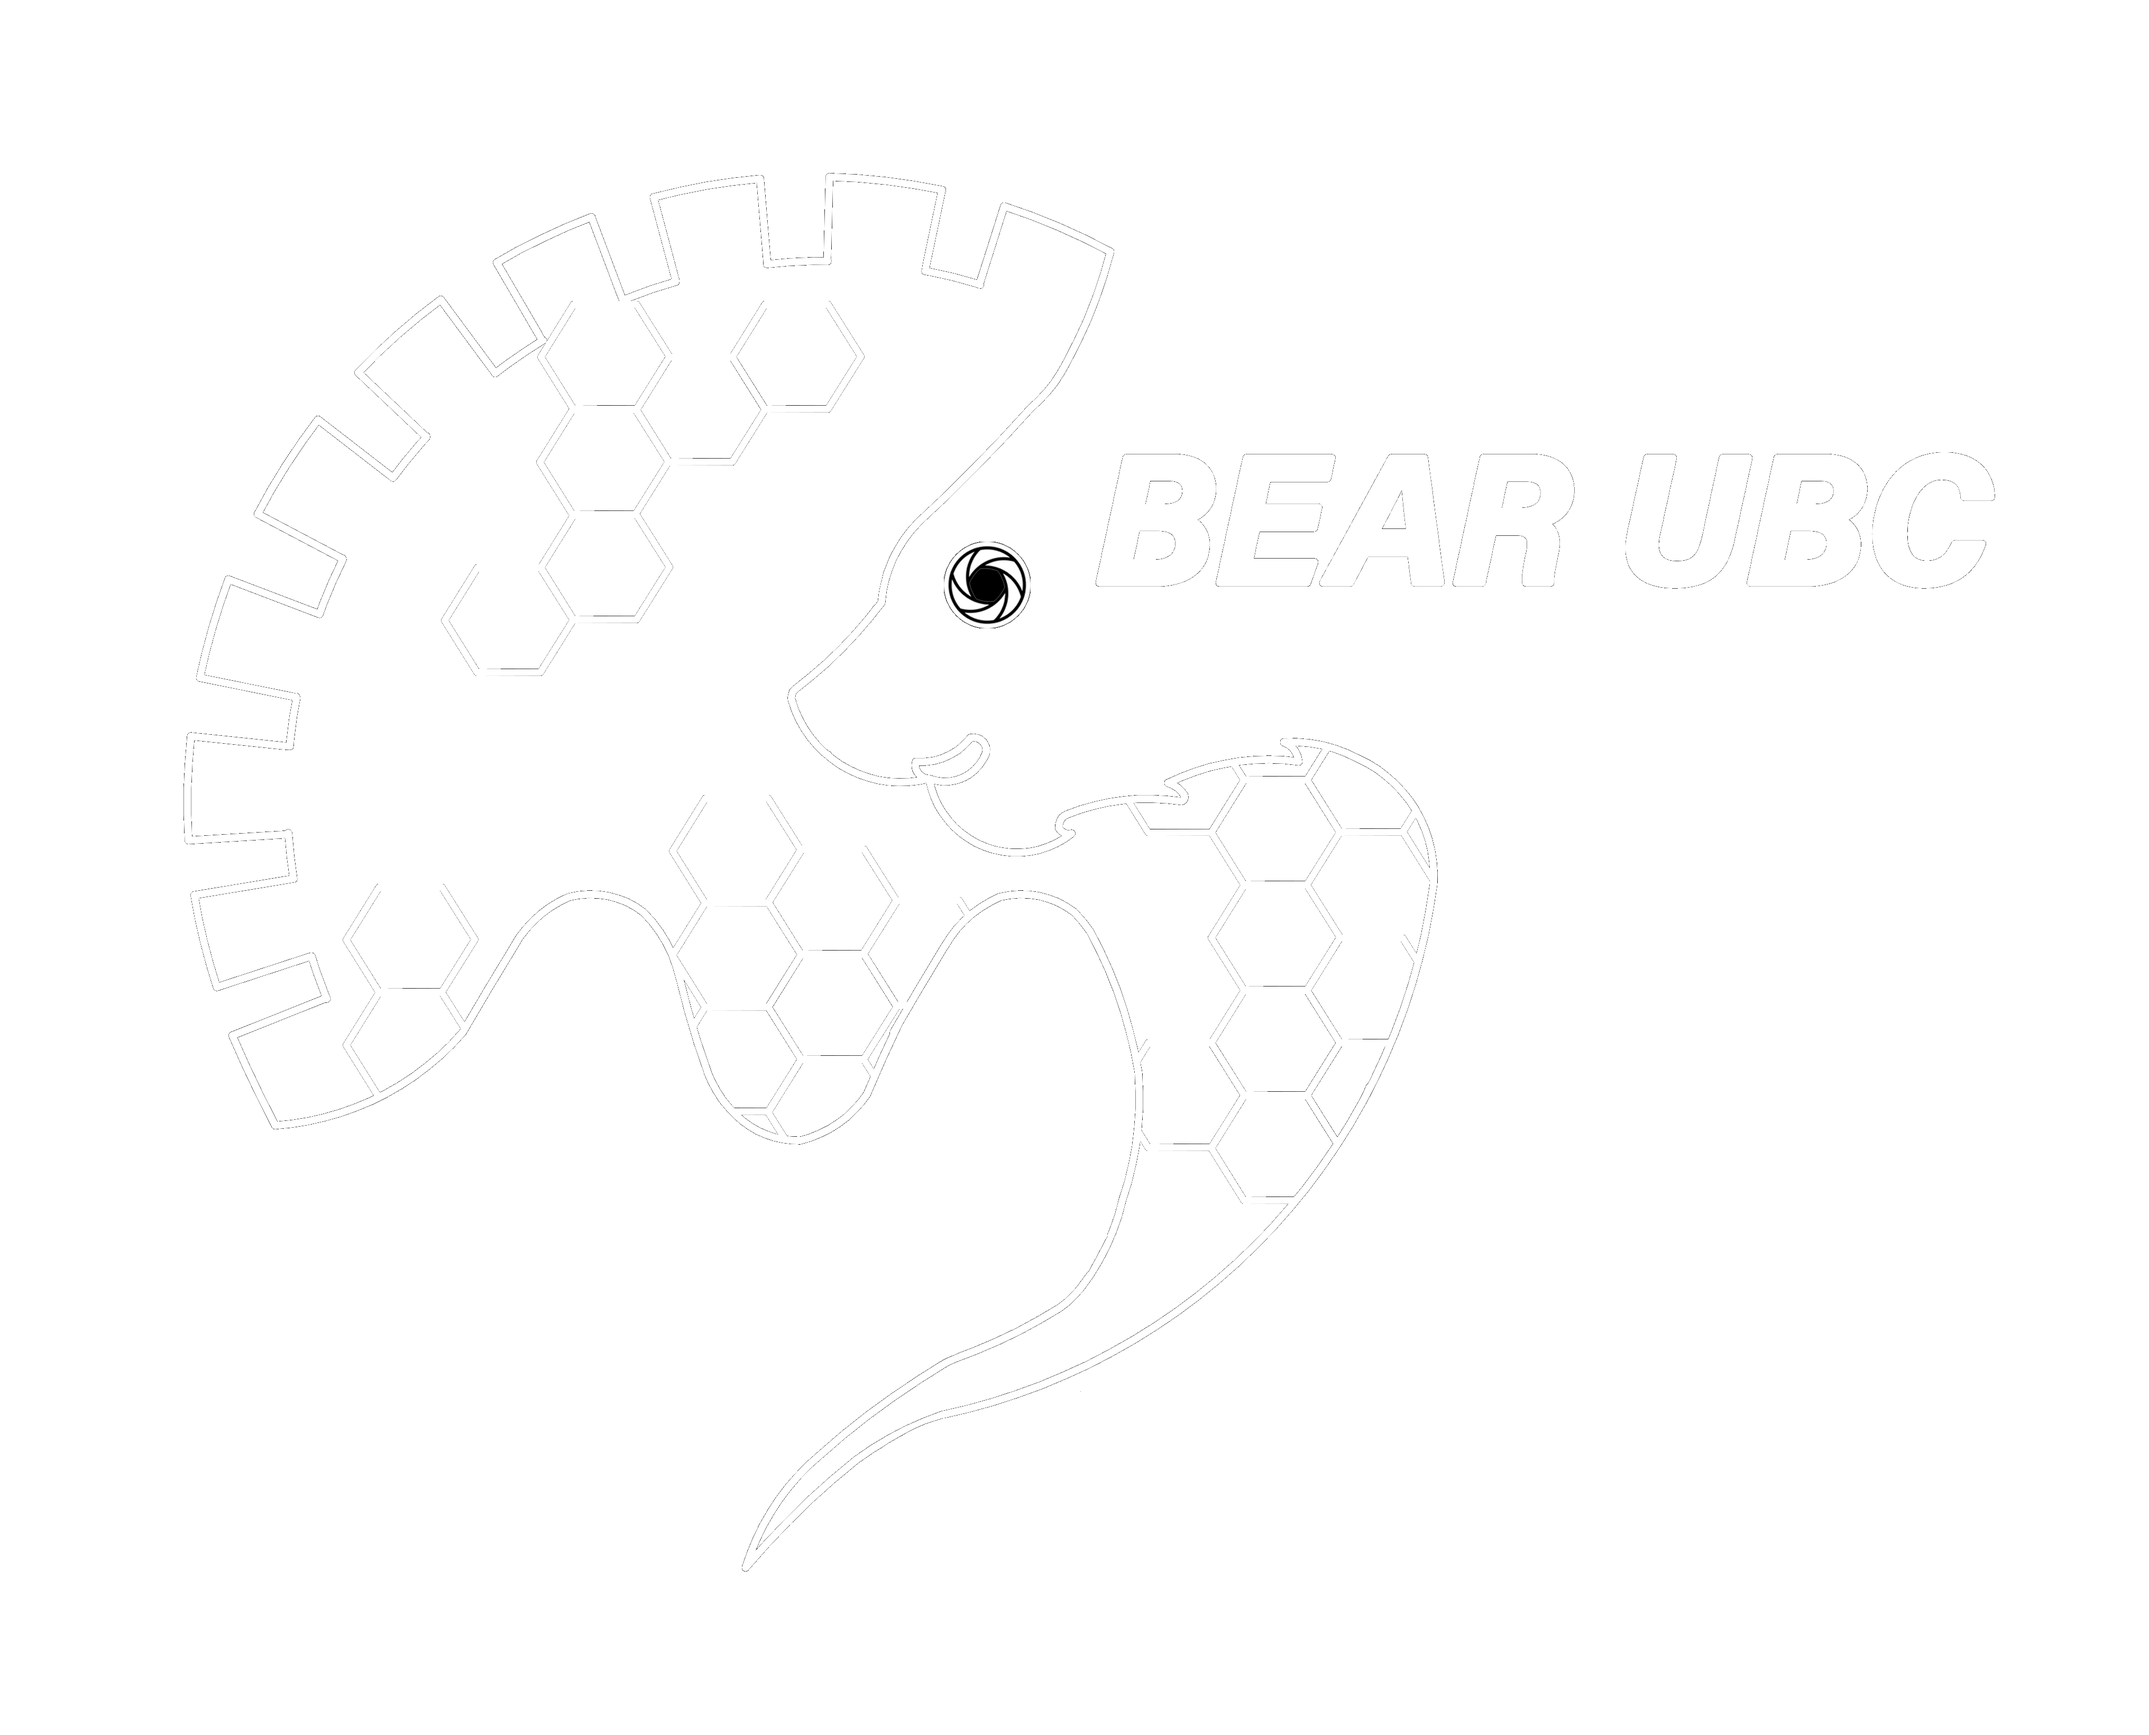
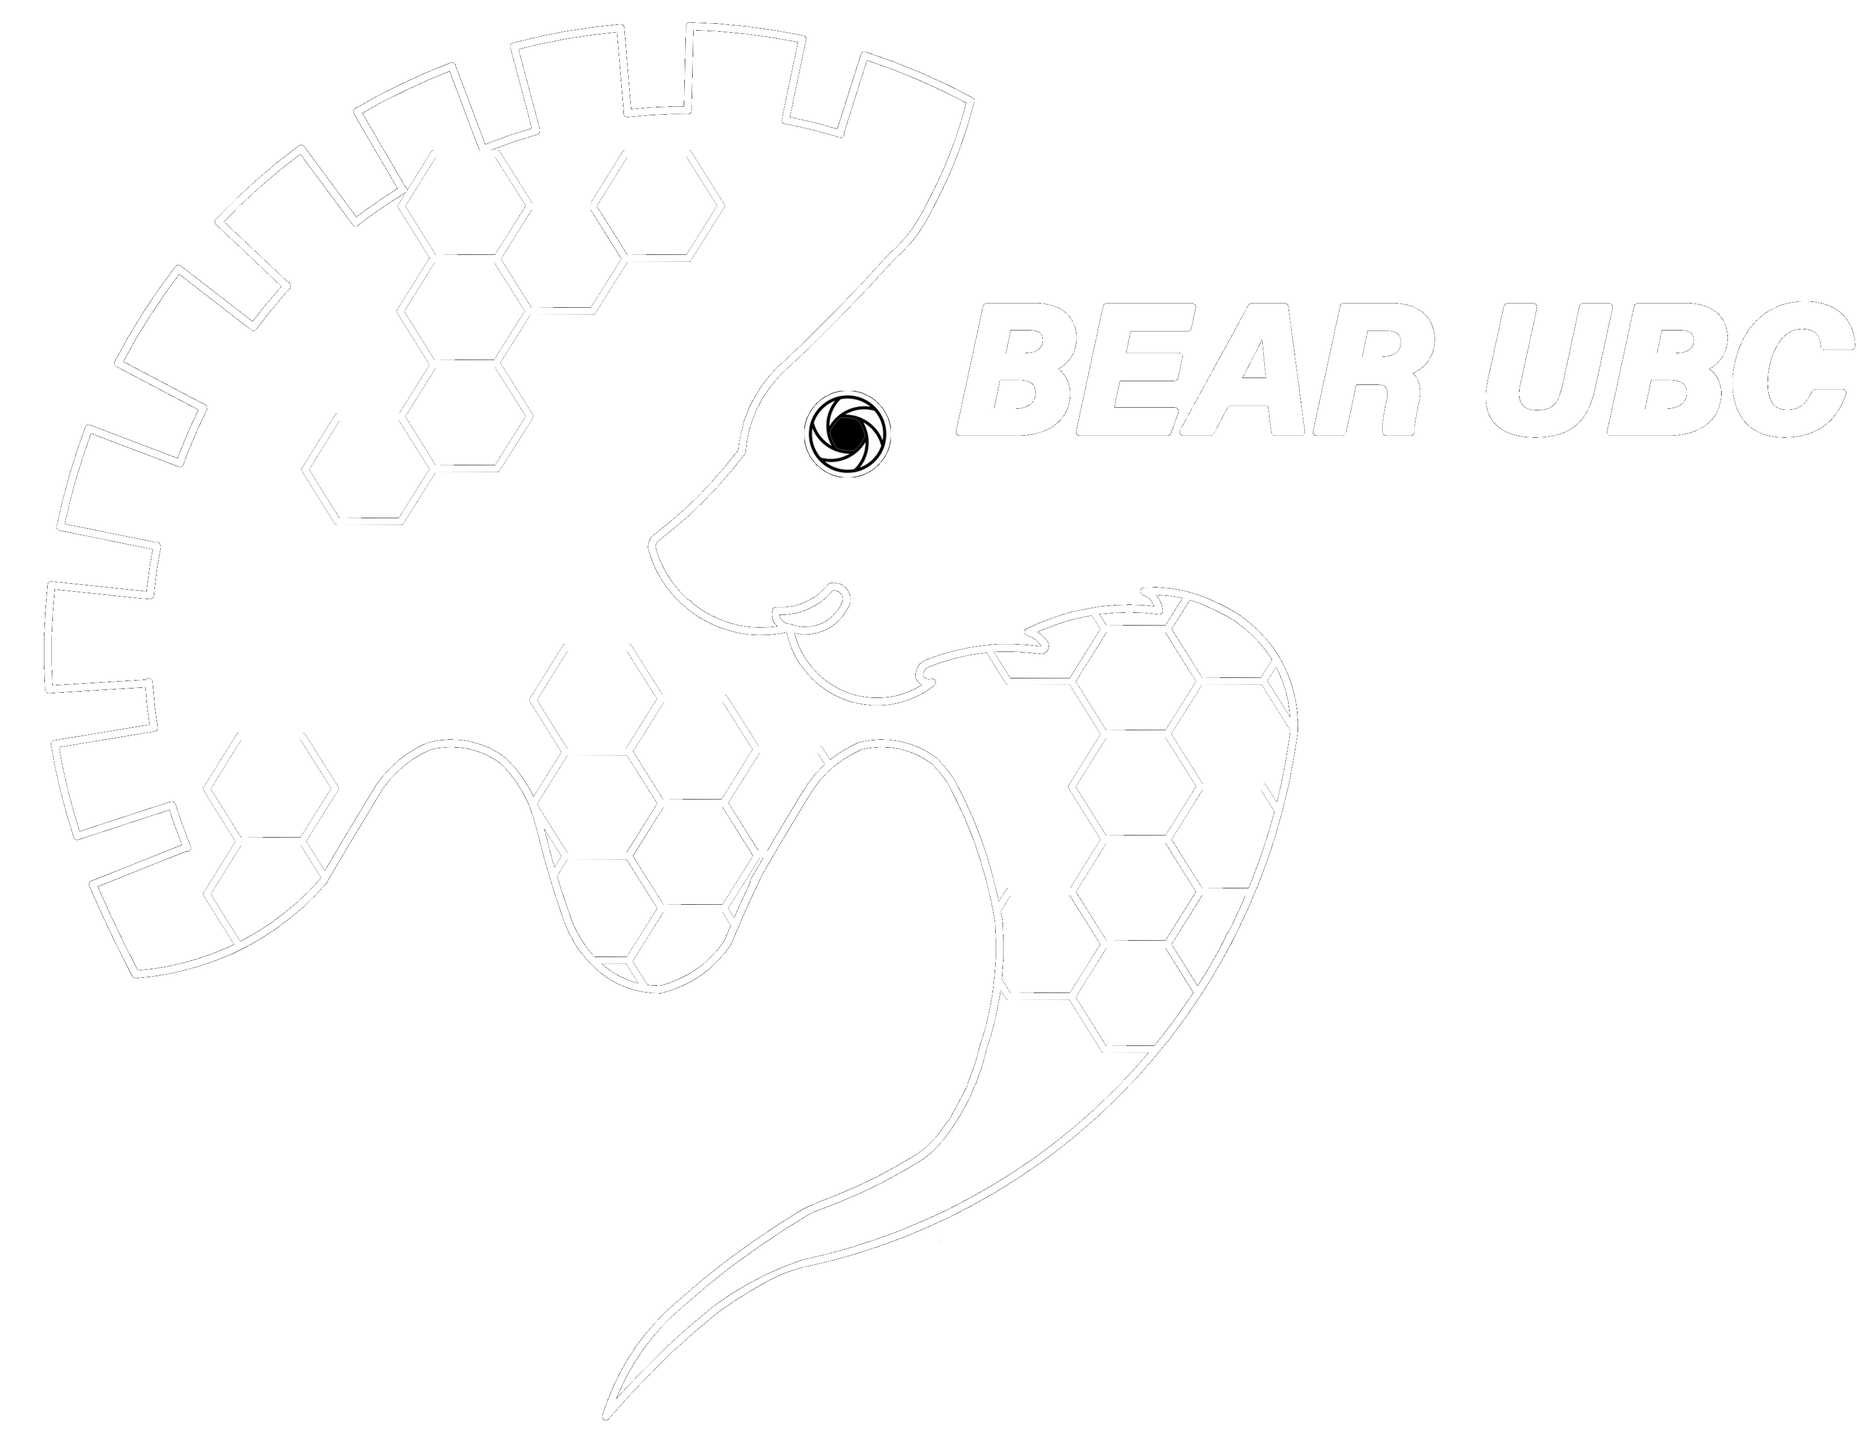
.exe

Changed region(s): [[0.4345, 0.279, 0.4966, 0.372]]

diff --git a/style/indexStyle.css b/style/indexStyle.css
@@ -57,7 +57,6 @@ nav{
 }
 
 .div_2 {
-    background-image: url("../images/index/leaf2.jpg");
     background-repeat: no-repeat;
     background-size: cover;
     height: 100vh;
@@ -69,8 +68,8 @@ nav{
 
 .div_2 h1 {
     text-align: center;
-    font-size: 600%;
-    padding-top: 10%;
+    font-size: 450%;
+    padding-top: 4%;
     color: white;
 }
 
@@ -82,10 +81,22 @@ nav{
     z-index: -1;
 }
 
+.div_2 h2 {
+    width: 40%;
+    color: black;
+    padding-top: 7%;
+    position: absolute;
+    padding-left: 30%;
+    text-align: center;
+}
+
 .div_2_img_2 {
+    position: absolute;
+
+    display: inline-block;
+
     display: block;
-    margin-left: auto;
-    margin-right: auto;
-    margin-top: 30%;
-    width: 40%; 
+    margin-left: 37.5%;
+    margin-top: 27%;
+    width: 25%; 
 }

diff --git a/index.html b/index.html
@@ -28,6 +28,8 @@
 
             <h1>BEAR.mp3</h1>
 
+            <h2>“BEAR” stands for the national symbol of Canada as well as the team’s passion for “Bionics Engineering Analysis and Research”.</h2>
+
             <a href="https://bearubc.com/" target="_blank">
                 <img class="div_2_img_2"  src="images/index/bear.png";>
             </a>
